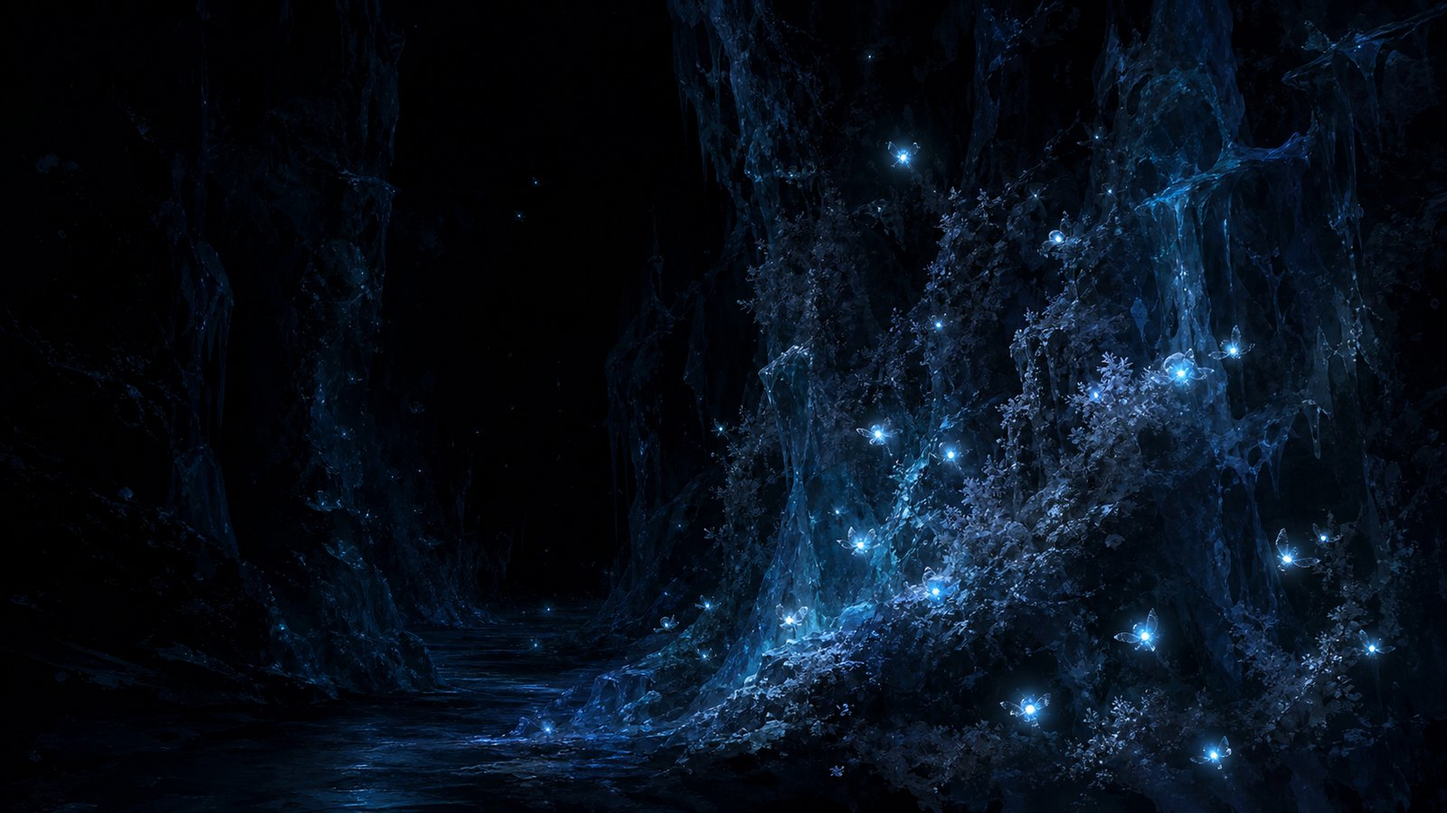
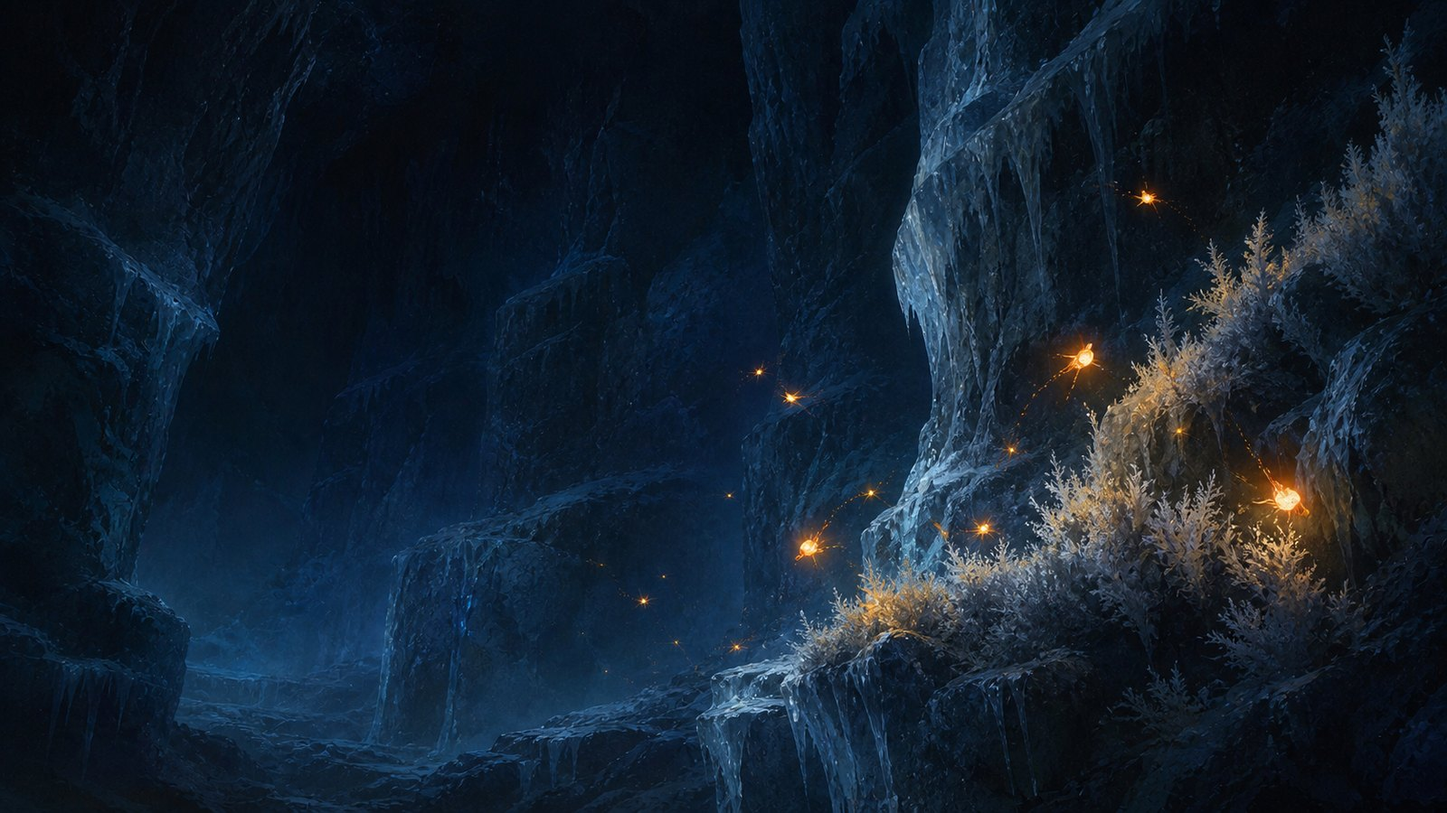
原生生物ページ改訂＝走性3種を末尾一文へ格下げ／スクイードの「本体を見た者はいない」矛盾を修正（交易ルートの既知種へ）／霜蛍の光を暖色へ（火に擬態する虫＝火の色・画像も焼き直し）／全説明文の読点を削減

diff --git a/index.html b/index.html
@@ -825,15 +825,16 @@ footer p { font-size:11.5px; color:var(--dim); max-width:640px; margin:0 auto; l
     <div class="cs-grid reveal"><div class="cs-row t-head"><div class="cs-k">地名／プリムスからの距離</div><div class="cs-v">説明</div></div><div class="t-div"><i></i><span>プリムス<em>0km</em></span><i></i></div><div class="cs-row t-img" style="background-image:url(assets/t_abyss_edge.jpg)"><button class="cs-k t-open" data-src="assets/t_abyss_edge.jpg" data-cap="奈落の縁" data-km="18–28km" data-desc="床そのものが、ぽっかりと抜け落ちている区間。穴の底は誰も見たことがない。道は穴を大きく迂回して、その大空間の縁をぐるりと回っていく。"><b>奈落の縁</b><span class="t-km">18–28km</span></button><div class="cs-v">床そのものが、ぽっかりと抜け落ちている区間。穴の底は誰も見たことがない。道は穴を大きく迂回して、その大空間の縁をぐるりと回っていく。</div></div><div class="t-div"><i></i><span>フロストゲート<em>37km</em></span><i></i></div><div class="cs-row t-img" style="background-image:url(assets/t_cascade.jpg)"><button class="cs-k t-open" data-src="assets/t_cascade.jpg" data-cap="永遠の滝" data-km="44–50km" data-desc="落下の途中で凍りついた、幾条もの大瀑。青白い氷の柱が垂れ下がり、その内側は空洞になっている。水が落ちるのをやめてから、どれだけ経ったのかは分からない。——時が止まっているように見えることから、そう呼ばれる。触れ続ければ凍傷を負う。"><b>永遠の滝</b><span class="t-km">44–50km</span></button><div class="cs-v">落下の途中で凍りついた、幾条もの大瀑。青白い氷の柱が垂れ下がり、その内側は空洞になっている。水が落ちるのをやめてから、どれだけ経ったのかは分からない。——時が止まっているように見えることから、そう呼ばれる。触れ続ければ凍傷を負う。</div></div><div class="cs-row t-img" style="background-image:url(assets/t_canyon.jpg)"><button class="cs-k t-open" data-src="assets/t_canyon.jpg" data-cap="大峡谷" data-km="55–68km" data-desc="道が突然、途方もない縦の裂け目に開ける。街道はその谷底を、両側の絶壁に挟まれて進んでいく。壁は高い。見上げても、天井は闇に呑まれて見えない。この一帯はあまりにも広く、崖に口を開けた横道の多くが、いまだ調べられていない。——調査に入った隊が、戻ってこないためである。"><b>大峡谷</b><span class="t-km">55–68km</span></button><div class="cs-v">道が突然、途方もない縦の裂け目に開ける。街道はその谷底を、両側の絶壁に挟まれて進んでいく。壁は高い。見上げても、天井は闇に呑まれて見えない。この一帯はあまりにも広く、崖に口を開けた横道の多くが、いまだ調べられていない。——調査に入った隊が、戻ってこないためである。</div></div><div class="cs-row t-img" style="background-image:url(assets/t_bones.jpg)"><button class="cs-k t-open" data-src="assets/t_bones.jpg" data-cap="死の道" data-km="70–78km" data-desc="凍りついた、途方もなく巨大な生きものの遺骸。その体内を、道が通っている。左右には肋骨が天井へ向かって立ち上がり、大きすぎて、闇の中の先は見えない。何者の骨なのかは分かっていない。"><b>死の道</b><span class="t-km">70–78km</span></button><div class="cs-v">凍りついた、途方もなく巨大な生きものの遺骸。その体内を、道が通っている。左右には肋骨が天井へ向かって立ち上がり、大きすぎて、闇の中の先は見えない。何者の骨なのかは分かっていない。</div></div><div class="cs-row t-img" style="background-image:url(assets/t_gate.jpg)"><button class="cs-k t-open" data-src="assets/t_gate.jpg" data-cap="石門の遺跡" data-km="80–86km" data-desc="ランタン亭のすぐ北。凍りつき、崩れた遺跡群が広がっている。年代は特定できていない。網の目のように細い枝道が無数に走っているが、これはかつてここにあった都市の名残だという。——その中心に、石門が立つ。"><b>石門の遺跡</b><span class="t-km">80–86km</span></button><div class="cs-v">ランタン亭のすぐ北。凍りつき、崩れた遺跡群が広がっている。年代は特定できていない。網の目のように細い枝道が無数に走っているが、これはかつてここにあった都市の名残だという。——その中心に、石門が立つ。</div></div><div class="t-div"><i></i><span>ランタン亭<em>87km</em></span><i></i></div><div class="cs-row t-img" style="background-image:url(assets/t_statues.jpg)"><button class="cs-k t-open" data-src="assets/t_statues.jpg" data-cap="氷の群像" data-km="92–98km" data-desc="無数の水の精霊が、動いていた姿のまま凍りついている区間。触れても、応えない。——凍ること自体は、不思議ではない。水でできているのだから。分からないのは、なぜこれほど多くの水の精霊が、ここにいたのかということだ。精霊が群れるほどの流れは、いまこの回廊のどこにもない。開拓団は、ここでは声を出さない。"><b>氷の群像</b><span class="t-km">92–98km</span></button><div class="cs-v">無数の水の精霊が、動いていた姿のまま凍りついている区間。触れても、応えない。——凍ること自体は、不思議ではない。水でできているのだから。分からないのは、なぜこれほど多くの水の精霊が、ここにいたのかということだ。精霊が群れるほどの流れは、いまこの回廊のどこにもない。開拓団は、ここでは声を出さない。</div></div><div class="cs-row t-img" style="background-image:url(assets/t_lake.jpg)"><button class="cs-k t-open" data-src="assets/t_lake.jpg" data-cap="地底湖" data-km="100–115km" data-desc="広大な湖。ただし、その水面は端から端まで凍りついている。氷の上を歩いて渡るのだ。天井の氷から雫が一定の間隔で落ち、その音が、どこまでも響く。——足の下には、水がある。深さは、誰も測っていない。そして開拓団は、街道筋の氷を外れることを固く禁じている。氷の下には、何かがいる。"><b>地底湖</b><span class="t-km">100–115km</span></button><div class="cs-v">広大な湖。ただし、その水面は端から端まで凍りついている。氷の上を歩いて渡るのだ。天井の氷から雫が一定の間隔で落ち、その音が、どこまでも響く。——足の下には、水がある。深さは、誰も測っていない。そして開拓団は、街道筋の氷を外れることを固く禁じている。氷の下には、何かがいる。</div></div><div class="cs-row t-img" style="background-image:url(assets/t_stoneforest.jpg)"><button class="cs-k t-open" data-src="assets/t_stoneforest.jpg" data-cap="石の森" data-km="地底湖から分岐" data-desc="凍った湖の上を、街道から横へ逸れて進んだ先。湖底から天井までを貫いて、無数の石柱が立ち並んでいる。見ようによっては森の中にいるようだ——そう言った誰かの言葉が、そのまま地名になった。街道筋を外れると湖の氷は薄くなる。重い装備では渡れない。そして薄い氷の下には、氷を割って腕を伸ばしてくるものがいる。だから、奥まで調べた者はいない。"><b>石の森</b><span class="t-km">地底湖から分岐</span></button><div class="cs-v">凍った湖の上を、街道から横へ逸れて進んだ先。湖底から天井までを貫いて、無数の石柱が立ち並んでいる。見ようによっては森の中にいるようだ——そう言った誰かの言葉が、そのまま地名になった。街道筋を外れると湖の氷は薄くなる。重い装備では渡れない。そして薄い氷の下には、氷を割って腕を伸ばしてくるものがいる。だから、奥まで調べた者はいない。</div></div><div class="cs-row t-img" style="background-image:url(assets/t_drift.jpg)"><button class="cs-k t-open" data-src="assets/t_drift.jpg" data-cap="吹き溜まり" data-km="128–140km" data-desc="吐息の谷が生んだ風は、北へ流れる。その風が霜を吹き寄せて、膝まで沈む吹き溜まりをつくる。坩堝横丁の近くに多い。氷壁には白い苔がびっしりと生えていて、触れると氷晶のような粉が舞う。吹き溜まりの雪は、半分は霜で、半分はそれだ。足を取られる。地上の雪と、同じように。"><b>吹き溜まり</b><span class="t-km">128–140km</span></button><div class="cs-v">吐息の谷が生んだ風は、北へ流れる。その風が霜を吹き寄せて、膝まで沈む吹き溜まりをつくる。坩堝横丁の近くに多い。氷壁には白い苔がびっしりと生えていて、触れると氷晶のような粉が舞う。吹き溜まりの雪は、半分は霜で、半分はそれだ。足を取られる。地上の雪と、同じように。</div></div><div class="t-div"><i></i><span>坩堝横丁<em>133km</em></span><i></i></div><div class="cs-row t-img" style="background-image:url(assets/t_breath.jpg)"><button class="cs-k t-open" data-src="assets/t_breath.jpg" data-cap="吐息の谷" data-km="145–160km" data-desc="地の底から熱と煙が噴き出している区間。坩堝横丁とラーフ大洞窟のあいだにある。溶岩が流れているわけではないので、明るくはない。ただ、暖かい。——ここでは息が白くならない。噴き出すものには毒が混じっているが、薄い。街道を通り抜けるだけなら、まず害はない。危ないのは、噴出口へ近づいたとき、長く留まったとき、そして——風が止まったときだ。この谷が吐く熱こそが回廊に温度差を生み、温度差が風を生み、その風が171kmの空気を動かしている。岩盤の細い亀裂から、澱んだ空気は抜け、新しい空気が入る。——毒を吐く谷が、同時に、この回廊を生かしている。"><b>吐息の谷</b><span class="t-km">145–160km</span></button><div class="cs-v">地の底から熱と煙が噴き出している区間。坩堝横丁とラーフ大洞窟のあいだにある。溶岩が流れているわけではないので、明るくはない。ただ、暖かい。——ここでは息が白くならない。噴き出すものには毒が混じっているが、薄い。街道を通り抜けるだけなら、まず害はない。危ないのは、噴出口へ近づいたとき、長く留まったとき、そして——風が止まったときだ。この谷が吐く熱こそが回廊に温度差を生み、温度差が風を生み、その風が171kmの空気を動かしている。岩盤の細い亀裂から、澱んだ空気は抜け、新しい空気が入る。——毒を吐く谷が、同時に、この回廊を生かしている。</div></div><div class="t-div"><i></i><span>ラーフ大洞窟<em>171km</em></span><i></i></div></div>
     <p class="reveal wl-note">石門。はじめてこの凍結の回路に人が訪れたときの記録では、この門は最初から開いていた。いまは研究が進み、開閉機構が復活している。ドートーベン協定において、帝国はこの遺跡の調査までは認められているが、門を抜けて北へ進むことは許されていない。——なお、かつて門の機構が壊れ、しばらく閉ざされたままになっていた時期がある。回廊の風は、そのあいだも止まらなかった。どこかに、別の道があるのだろうか。</p>
     <h3 class="wsec reveal">回廊の原生生物<small>THE CREATURES OF THE CORRIDOR</small></h3>
-    <p class="reveal wl-lead">凍結の回路には、闇と寒さに適応した原生生物が棲んでいる。獣。魔獣。眼を持たないもの。名の付いていないもの。</p>
-    <p class="reveal wl-lead">だが開拓団が長い年月をかけて確かめた、ひとつの実務がある。——灯りへの反応は、三通りに分かれる。</p>
-    <div class="cs-grid reveal"><div class="cs-row"><div class="cs-k">光を恐れて退くもの</div><div class="cs-v">多くの獣がこれにあたる。灯りは盾になる。</div></div><div class="cs-row"><div class="cs-k">光に寄ってくるもの</div><div class="cs-v">灯りは罠になる。腐肉を漁るものは、光のあとに死骸が残ることを知っている。</div></div><div class="cs-row"><div class="cs-k">光に反応しないもの</div><div class="cs-v">灯りは意味を持たない。眼を持たない種がいる。</div></div></div>
+    <p class="reveal wl-lead">凍結の回路には闇と寒さに適応した原生生物が棲んでいる。獣。魔獣。眼を持たないもの。名の付いていないもの。</p>
+    <p class="reveal wl-lead">その多くは灯りを恐れて近づいてこない。灯りを保っているかぎり日々の旅は成り立つ。——だが、そうでないものもいる。</p>
+    <div class="cs-grid reveal"></div>
     <p class="reveal wl-lead">以下は、開拓団がこれまでに姿を確かめ、名を与えた原生生物である。名をクリックすると、大きく見られる。</p>
-    <div class="cs-grid reveal"><div class="cs-row t-img" style="background-image:url(assets/cr_grendel.jpg)"><button class="cs-k t-open" data-src="assets/cr_grendel.jpg" data-cap="グリンデル" data-km="回廊の頂点" data-desc="回廊の頂点に立つ魔獣。竜ではない。色白の、ぶよぶよとした巨躯。鱗も甲殻もなく、身をおおう脂に濡れて、いつも湯気を立てている——熱を持つ生きものなのだ。近づけば、あたりの寒さがふと和らぐ。それが、たったひとつの前触れである。成体の眼は濁って塞がり、光を見ない。だから灯りをかざしても、退きも寄りもしない。狩りは、匂いと、熱で行う。殺すその一瞬にだけ、身にまとった脂に火花を散らして燃やす——常は光らぬ獣が、獲物を焼くときにだけ、火をまとう。追い詰められれば、自らの脂に火を放ち、全身を炎に包んで暴れる。フロストゲートには、これに備え、討伐にあたる者たちが常駐している。一頭ではない。——大峡谷のどこかに、大きな巣があるらしい。"><b>グリンデル</b><span class="t-km">回廊の頂点</span></button><div class="cs-v">回廊の頂点に立つ魔獣。竜ではない。色白の、ぶよぶよとした巨躯。鱗も甲殻もなく、身をおおう脂に濡れて、いつも湯気を立てている——熱を持つ生きものなのだ。近づけば、あたりの寒さがふと和らぐ。それが、たったひとつの前触れである。成体の眼は濁って塞がり、光を見ない。だから灯りをかざしても、退きも寄りもしない。狩りは、匂いと、熱で行う。殺すその一瞬にだけ、身にまとった脂に火花を散らして燃やす——常は光らぬ獣が、獲物を焼くときにだけ、火をまとう。追い詰められれば、自らの脂に火を放ち、全身を炎に包んで暴れる。フロストゲートには、これに備え、討伐にあたる者たちが常駐している。一頭ではない。——大峡谷のどこかに、大きな巣があるらしい。</div></div><div class="cs-row t-img" style="background-image:url(assets/cr_squid.jpg)"><button class="cs-k t-open" data-src="assets/cr_squid.jpg" data-cap="ジャイアントスクイード" data-km="地底湖の底" data-desc="凍った地底湖の底に潜む、黒い巨躯。氷の割れ目から、腕だけが伸びてくる——本体を見た者はいない。斬っても、また生えてくる。音と、震動に反応する。だから地底湖では、誰も静かには進めない。撃退した記録は、ひとつもない。あるのは、逃げ切った記録だけだ。"><b>ジャイアントスクイード</b><span class="t-km">地底湖の底</span></button><div class="cs-v">凍った地底湖の底に潜む、黒い巨躯。氷の割れ目から、腕だけが伸びてくる——本体を見た者はいない。斬っても、また生えてくる。音と、震動に反応する。だから地底湖では、誰も静かには進めない。撃退した記録は、ひとつもない。あるのは、逃げ切った記録だけだ。</div></div><div class="cs-row t-img" style="background-image:url(assets/cr_centipede.jpg)"><button class="cs-k t-open" data-src="assets/cr_centipede.jpg" data-cap="エンバーセンティピード" data-km="焼け跡に群がる" data-desc="腕ほどの太さの節足を、無数にうねらせる大型のムカデ。天井と氷壁を伝って這い、焼け跡の温もりに群がる。灯りに覆いかぶさり、その体で炎を埋めて消してしまう——悪意ではない。ただ、熱に集まるだけだ。噛まれれば、毒がまわる。"><b>エンバーセンティピード</b><span class="t-km">焼け跡に群がる</span></button><div class="cs-v">腕ほどの太さの節足を、無数にうねらせる大型のムカデ。天井と氷壁を伝って這い、焼け跡の温もりに群がる。灯りに覆いかぶさり、その体で炎を埋めて消してしまう——悪意ではない。ただ、熱に集まるだけだ。噛まれれば、毒がまわる。</div></div><div class="cs-row t-img" style="background-image:url(assets/cr_frostfly.jpg)"><button class="cs-k t-open" data-src="assets/cr_frostfly.jpg" data-cap="霜蛍" data-km="灯りを生む虫" data-desc="指先ほどの小さな虫。危機を感じると、冷たい青い光を放つ——熱のない、まやかしの灯りだ。回廊の獣の多くは光を恐れるので、光ることで身を守る。この虫を器具にしたものが、蛍灯。明るいのに、少しも暖かくない灯りである。"><b>霜蛍</b><span class="t-km">灯りを生む虫</span></button><div class="cs-v">指先ほどの小さな虫。危機を感じると、冷たい青い光を放つ——熱のない、まやかしの灯りだ。回廊の獣の多くは光を恐れるので、光ることで身を守る。この虫を器具にしたものが、蛍灯。明るいのに、少しも暖かくない灯りである。</div></div><div class="cs-row t-img" style="background-image:url(assets/cr_frostwolf.jpg)"><button class="cs-k t-open" data-src="assets/cr_frostwolf.jpg" data-cap="ノースウルフ" data-km="灯りの輪の外" data-desc="灯りの輪の、すぐ外を歩く。同じ速さで、いつまでも。輪の中にいるかぎり、襲ってはこない——だが、輪から出た者、灯りを落とした者だけを、確実に仕留める。「離れるな」は、この獣が開拓団に教えた掟だ。"><b>ノースウルフ</b><span class="t-km">灯りの輪の外</span></button><div class="cs-v">灯りの輪の、すぐ外を歩く。同じ速さで、いつまでも。輪の中にいるかぎり、襲ってはこない——だが、輪から出た者、灯りを落とした者だけを、確実に仕留める。「離れるな」は、この獣が開拓団に教えた掟だ。</div></div><div class="cs-row t-img" style="background-image:url(assets/cr_frostspider.jpg)"><button class="cs-k t-open" data-src="assets/cr_frostspider.jpg" data-cap="フロストスパイダー" data-km="天井の待ち伏せ" data-desc="天井と氷壁に、氷のように透きとおった脚で張り付いている。そして、上から落ちてくる。灯りは、横へは届いても、真上へは届きにくい——その隙を、この獣は知っている。頭上を、忘れないことだ。"><b>フロストスパイダー</b><span class="t-km">天井の待ち伏せ</span></button><div class="cs-v">天井と氷壁に、氷のように透きとおった脚で張り付いている。そして、上から落ちてくる。灯りは、横へは届いても、真上へは届きにくい——その隙を、この獣は知っている。頭上を、忘れないことだ。</div></div></div>
-    <p class="reveal wl-note">霜蛍（しもぼたる）が危機に瀕して光るのは、この一つ目の性質を利用しているからである。蛍灯は、その仕組みを器具にしたものだ。</p>
+    <div class="cs-grid reveal"><div class="cs-row t-img" style="background-image:url(assets/cr_grendel.jpg)"><button class="cs-k t-open" data-src="assets/cr_grendel.jpg" data-cap="グリンデル" data-km="回廊の頂点" data-desc="回廊の頂点に立つ魔獣。竜ではない。色白のぶよぶよとした巨躯。鱗も甲殻もない。身をおおう脂に濡れていつも湯気を立てている——熱を持つ生きものなのだ。近づけばあたりの寒さがふと和らぐ。それが唯一の前触れである。成体の眼は濁って塞がり光を見ない。だから灯りをかざしても退きも寄りもしない。狩りは匂いと熱で行う。殺すその一瞬にだけ身にまとった脂に火花を散らして燃やす。常は光らぬ獣が獲物を焼くときにだけ火をまとうのだ。追い詰められれば自らの脂に火を放ち全身を炎に包んで暴れる。フロストゲートにはこれに備える討伐者が常駐している。一頭ではない。——大峡谷のどこかに大きな巣があるらしい。"><b>グリンデル</b><span class="t-km">回廊の頂点</span></button><div class="cs-v">回廊の頂点に立つ魔獣。竜ではない。色白のぶよぶよとした巨躯。鱗も甲殻もない。身をおおう脂に濡れていつも湯気を立てている——熱を持つ生きものなのだ。近づけばあたりの寒さがふと和らぐ。それが唯一の前触れである。成体の眼は濁って塞がり光を見ない。だから灯りをかざしても退きも寄りもしない。狩りは匂いと熱で行う。殺すその一瞬にだけ身にまとった脂に火花を散らして燃やす。常は光らぬ獣が獲物を焼くときにだけ火をまとうのだ。追い詰められれば自らの脂に火を放ち全身を炎に包んで暴れる。フロストゲートにはこれに備える討伐者が常駐している。一頭ではない。——大峡谷のどこかに大きな巣があるらしい。</div></div><div class="cs-row t-img" style="background-image:url(assets/cr_squid.jpg)"><button class="cs-k t-open" data-src="assets/cr_squid.jpg" data-cap="ジャイアントスクイード" data-km="地底湖の底" data-desc="凍った地底湖の底に潜む黒い巨躯。骨を持たない。氷のわずかな割れ目からでも太い腕を何本も伸ばして獲物を絡め取る。腕は斬ってもまた生えてくる。音と震動に反応する——だから地底湖では誰も静かに進めない。回廊でもっとも危険な獣のひとつだ。開拓団はこれを避けて街道を敷いた。撃退した記録はひとつもない。あるのは逃げ切った記録だけである。"><b>ジャイアントスクイード</b><span class="t-km">地底湖の底</span></button><div class="cs-v">凍った地底湖の底に潜む黒い巨躯。骨を持たない。氷のわずかな割れ目からでも太い腕を何本も伸ばして獲物を絡め取る。腕は斬ってもまた生えてくる。音と震動に反応する——だから地底湖では誰も静かに進めない。回廊でもっとも危険な獣のひとつだ。開拓団はこれを避けて街道を敷いた。撃退した記録はひとつもない。あるのは逃げ切った記録だけである。</div></div><div class="cs-row t-img" style="background-image:url(assets/cr_centipede.jpg)"><button class="cs-k t-open" data-src="assets/cr_centipede.jpg" data-cap="エンバーセンティピード" data-km="焼け跡に群がる" data-desc="腕ほどの太さの節足を無数にうねらせる大型のムカデ。天井と氷壁を伝って這う。焼け跡の温もりに群がり灯りに覆いかぶさる。その体で炎を埋めて消してしまう。悪意ではない。ただ熱に集まるだけだ。噛まれれば毒がまわる。"><b>エンバーセンティピード</b><span class="t-km">焼け跡に群がる</span></button><div class="cs-v">腕ほどの太さの節足を無数にうねらせる大型のムカデ。天井と氷壁を伝って這う。焼け跡の温もりに群がり灯りに覆いかぶさる。その体で炎を埋めて消してしまう。悪意ではない。ただ熱に集まるだけだ。噛まれれば毒がまわる。</div></div><div class="cs-row t-img" style="background-image:url(assets/cr_frostfly.jpg)"><button class="cs-k t-open" data-src="assets/cr_frostfly.jpg" data-cap="霜蛍" data-km="灯りを生む虫" data-desc="指先ほどの小さな虫。危機を感じると火のような橙色の光を放つ。だがその光に熱はない。まやかしの火である。回廊の獣の多くは火を恐れる。だから火のふりをして身を守るのだ。この虫を器具にしたものが蛍灯。明るいのに少しも暖かくない灯りである。"><b>霜蛍</b><span class="t-km">灯りを生む虫</span></button><div class="cs-v">指先ほどの小さな虫。危機を感じると火のような橙色の光を放つ。だがその光に熱はない。まやかしの火である。回廊の獣の多くは火を恐れる。だから火のふりをして身を守るのだ。この虫を器具にしたものが蛍灯。明るいのに少しも暖かくない灯りである。</div></div><div class="cs-row t-img" style="background-image:url(assets/cr_frostwolf.jpg)"><button class="cs-k t-open" data-src="assets/cr_frostwolf.jpg" data-cap="ノースウルフ" data-km="灯りの輪の外" data-desc="灯りの輪のすぐ外を歩く。同じ速さでいつまでも。輪の中にいるかぎり襲ってはこない。だが輪から出た者や灯りを落とした者だけを確実に仕留める。「離れるな」——この獣が開拓団に教えた掟だ。"><b>ノースウルフ</b><span class="t-km">灯りの輪の外</span></button><div class="cs-v">灯りの輪のすぐ外を歩く。同じ速さでいつまでも。輪の中にいるかぎり襲ってはこない。だが輪から出た者や灯りを落とした者だけを確実に仕留める。「離れるな」——この獣が開拓団に教えた掟だ。</div></div><div class="cs-row t-img" style="background-image:url(assets/cr_frostspider.jpg)"><button class="cs-k t-open" data-src="assets/cr_frostspider.jpg" data-cap="フロストスパイダー" data-km="天井の待ち伏せ" data-desc="天井と氷壁に張り付いている。氷のように透きとおった脚で。そして上から落ちてくる。灯りは横へは届いても真上へは届きにくい。その隙をこの獣は知っている。頭上を忘れないことだ。"><b>フロストスパイダー</b><span class="t-km">天井の待ち伏せ</span></button><div class="cs-v">天井と氷壁に張り付いている。氷のように透きとおった脚で。そして上から落ちてくる。灯りは横へは届いても真上へは届きにくい。その隙をこの獣は知っている。頭上を忘れないことだ。</div></div></div>
+    <p class="reveal wl-note">霜蛍（しもぼたる）が危機に瀕して光るのは、光を恐れる獣を遠ざけるためである。蛍灯は、その仕組みを器具にしたものだ。</p>
     <p class="reveal wl-note">灯りの輪の外を、同じ速度でついてくるものがいる。開拓団はそれらをまとめて「外のもの」と呼ぶ。姿を見た者は、多くない。——見た者は、たいてい灯りを失った者だからである。</p>
     <p class="reveal wl-note">ただし、灯りを恐れない個体が現れはじめている。ランタンを掲げたまま襲われた例が、すでに複数記録されている。獣は学習する。回廊が開かれてから、まだ十数年しか経っていない。</p>
     <p class="reveal wl-note">灯りの効かないものへの備えは、拠点ごとに異なる。フロストゲートには討伐にあたる者たちが常駐し、出没の記録が積み重ねられている。坩堝横丁では獣除けの香が調合され、旅人はそれを買っていく。ラーフ大洞窟では炉の熱と煙がすべてを覆い隠す。ランタン亭が、なぜあれほど静かなのかは——客のあいだで、いろいろに語られている。</p>
+    <p class="reveal wl-note">闇の中に住まう彼らは光にさまざまな反応を示す。寄るものもいる。退くものもいる。意に介さぬものもいる。</p>
     <p class="reveal wl-caveat">ここに書いたのは、開拓団がこれまでに確かめたことにすぎない。凍結の回路には、まだ誰も見たことのない原生生物が、いくらでも棲んでいる。</p>
     <h3 class="wsec reveal">年表<small>HISTORY</small></h3>
     <p class="tl-intro reveal">エリンディル西方の近代と、氷原開拓団の歩み。</p>
